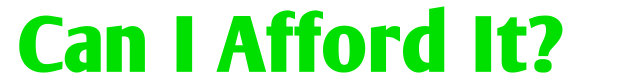
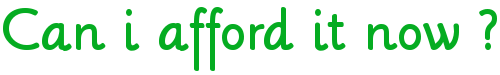
ui

diff --git a/public/stylesheets/application.css b/public/stylesheets/application.css
@@ -1,9 +1,9 @@
-body { background-color: #fff; color: #333; }
+body { background-color: #fff; color: #444444; }
 
 body, p, ol, ul, td {
   font-family:'Droid Sans',helvetica,Arial,sans-serif;
   font-size:   16px;
-  line-height: 18px;
+  line-height: 1.3em;
   width:100%;
   margin: 0 auto;
   background-color:#eefad6;
@@ -12,14 +12,19 @@ body, p, ol, ul, td {
 pre {
   background-color: #eee;
   padding: 10px;
-  font-size: 11px;
+  font-size: 12px;
 }
 select {
     background-color:#eefad6;
 }
-a { color: #000; }
-a:visited { color: #000; }
-a:hover { color: #a64b00; }
+a {
+color:#037ec4;
+cursor:pointer;
+outline:medium none;
+text-decoration:none;
+}
+a:visited { color: #045f93; }
+a:hover { color: #045f93; text-decoration:underline; }
 
 .fieldWithErrors {
   padding: 2px;
@@ -49,12 +54,10 @@ a:hover { color: #a64b00; }
   padding: 5px;
 }
 #errorExplanation ul  {
-  font-size: 12px;
     width:638px;
 }
 #errorExplanation ul li {
-  font-size: 12px;
-  list-style: circle;
+    list-style: circle;
     text-align:left;
     list-style-image:url("/images/unchecked.gif")
 }
@@ -71,10 +74,16 @@ fieldset {
     text-align: left;
     letter-spacing:0.5px;
 }
-
+#header {
+    background:url("/images/header.png") repeat-x scroll left bottom #ffffff;
+}
+#top-header {
+    clear:both;
+    height:35px;
+    width:100%;
+}
 form {
 color:#333333;
-font-size:1em;
 display:block;
 }
 
@@ -93,44 +102,26 @@ margin:0;
 padding:5px 0;
 text-align:left;
 }
-#header {    
-    height:80px;
-    margin:0;
-    padding:0;
-    position:relative;
-    text-align:center;
-    width:756px;
-}
+
 img {
     border:0;
 }
 #main{
     margin:0 auto;
-    padding-left:40px;
     position:relative;
     text-align:center;
-    width:710px;
-}
-#footer2 {
-    text-align: center;
-    font-size:12px;
-    width:662px;
-    padding: 10px;
-    margin:50px 20px 7px 0px;
-    clear:both;
-    margin:0 20%;
 }
 
 #footer {
     margin-top: 30px;
-    padding-left:40px;
     position:relative;
     text-align:center;
     width:710px;
 }
-#footer ul  {
-     width:662px;
+#footer ul {
+    background:none;
 }
+
 #superwrapper {
     margin:0 auto;
     padding:0;
@@ -139,10 +130,13 @@ img {
     width:946px;
 }
 #wrapper {
-    background:url("/images/main-bg.png") repeat-y scroll 0 0 #FFFFFF;
-    margin:0;
+    -moz-box-shadow:3px 3px 4px #c1cbaf;
+    background:none repeat scroll 0 0 #ffffff;
+    border-bottom:1px solid #c1cbaf;
+    border-right:1px solid #c1cbaf;
     padding:0;
     position:relative;
+    margin:0;   
     text-align:center;
     width:776px;
 }
@@ -151,7 +145,6 @@ img {
     position:relative;
     text-align:center;
     width:756px;
-    padding:20px 0 0;
 }
 h1, h3 {
     text-align: left;
@@ -161,23 +154,31 @@ h1, h3 {
     background-color:#c40e0e;
     color: #fff;
     font-weight: bold;
+    clear:both;
 }
 
 #tagline {
-background: transparent url('/images/tag.png') repeat-x scroll 0 0;
-color:#FFFFFF;
-font-size:23px;
-height:33px;
-margin:20px 20px 7px 42px;
-overflow:hidden;
-padding:10px 20px 7px 30px;
-width:662px;
-line-height:1.2em;
+    margin:20px 0px;
+}
+#tagline ul {    
+    color:#038819;
+    font-size:23px;
+    height:65px;
+    overflow:hidden;
+    padding:10px 20px 7px 0px;    
+    line-height:1.3em;
+    clear:both;
+    width:715px;
+    border-bottom:4px solid #038819;
+    background:none;
+}
+#tagline ul li {
+    list-style:none;
+    text-align:left;
 }
 #snippets {
     clear:both;
     text-align:left;
-    font-size:20px;
     margin-top:10px;
     line-height:1.2em;
 }
@@ -189,12 +190,11 @@ line-height:1.2em;
   background:url("/images/fieldset.gif") repeat-x scroll left bottom #F8FDEF;
   padding: 10px;
 }
-.snippet-footer {
-    background:url("/images/footer.png") repeat-x scroll left bottom #F8FDEF;
+.snippet-footer {    
     font-size:12px;
-    padding: 0 10px;
+    text-align:right;
 }
-.snippet-footer a {
+.snippet-footer a:hover {
     text-decoration: underline;
 }
 .ui-tabs .ui-tabs-nav {
@@ -206,26 +206,32 @@ width: 99%;
 #financial-details, #user-response, #expert-response,#all-responses {
     text-align: left;
 }
-
-#login {
-background:url("/images/footer.png") repeat-x scroll left bottom #F8FDEF;
-padding:3px 10px;
-font-size:13px;
-width:691px;
-margin-left:1px;
-color:#222222;
+#logo {
+    float:left;
+    left:0;
+    position:absolute;
 }
+#login {
+    padding:3px 10px;
+    font-size:13px;
+    position:absolute;
+    right:0;
+    top:20px;
+}
+
 #login a {
-color:#222222;
-display:inline-block;
-font-weight:bold;
-padding:0px 10px 0;
-text-decoration:none;
+color:#05ac21;
+letter-spacing:1px;
+cursor: pointer;
 }
 #login a:hover {
-    background-color:#fff;
     outline: medium none;
-    color: #a64b00;
+    color: #038819;
+}
+#user-stat {
+    float:left;
+    color:#FF4800;
+    border-bottom:1px dotted;
 }
 #user-response ul li {
     list-style:none;
@@ -233,12 +239,12 @@ text-decoration:none;
 #user-response ul {
     width:638px;
 }
-#expert-approved{
+.expert-approved{
     font-weight:bold;
     color:green;
     padding-top:5px;
 }
-#expert-denied{
+.expert-denied{
     font-weight:bold;
     color:red;
     padding-top:5px;
@@ -247,8 +253,8 @@ text-decoration:none;
     text-align: left;
 }
 #notification-prompt{
+    clear:both;
     margin-top: 10px;
-    font-size: 18px;
     padding:15px 3px;
     color: #fff;
     text-align: left;
@@ -261,6 +267,9 @@ text-decoration:none;
 #footer ul li {
      display:inline;
      font-size:12px;
+}
+#footer a {
+     text-decoration:none;
 }
 #notification-status{
     color: red;
@@ -311,6 +320,7 @@ input[type="text"],select {
     font-family: sans-serif;
     font-size: 16px;
     margin-top:3px;
+    padding:3px;
 }
 #financial-input input[type="text"], #question-input input[type="text"]{
     width:50%;
